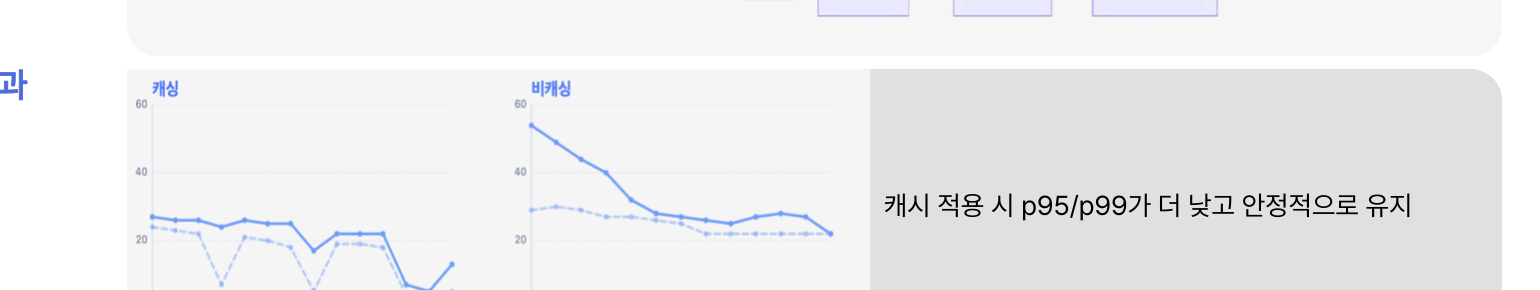
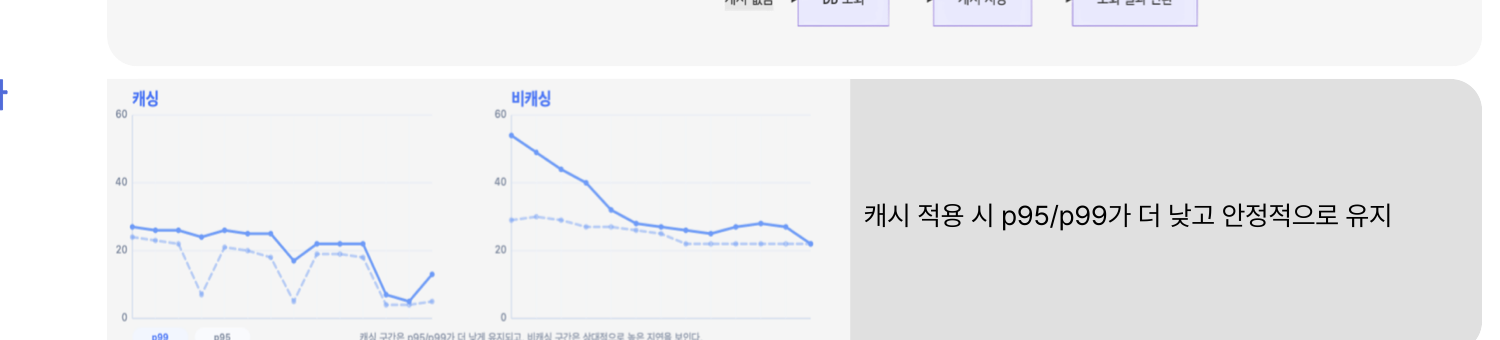
Use tighter cache validation crop

diff --git a/index.html b/index.html
@@ -308,7 +308,7 @@
               <dd>
                 <figure class="chart-card pdf-crop-card">
                   <img
-                    src="./assets/portfolio/cache-validation-pdf.png?v=2"
+                    src="./assets/portfolio/cache-validation-pdf.png?v=3"
                     alt="캐싱 검증 결과 이미지"
                   />
                 </figure>
